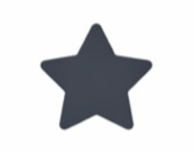
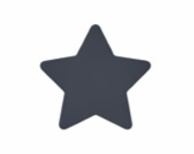
added the colors and tweaked some things

diff --git a/index.css b/index.css
@@ -1,24 +1,65 @@
 @import url('https://fonts.googleapis.com/css2?family=Bitcount+Grid+Double:wght@100..900&family=Share+Tech&display=swap');
 
+* {
+  margin: 0;
+  padding: 0;
+  border: 0;
+}
+
+body {
+    background-color: #1A1A1D;
+    display: flex;
+    flex-direction: column;
+    min-height: 100vh;
+}
+
+main {
+    flex: 1;
+    display: flex;
+    flex-direction: column;
+    justify-content: space-between;
+    padding-bottom: 10px;
+}
+
 h1, h2, h3, h4 {
     font-family: 'Bitcount Grid Double';
     text-align: center;
+    color: #cacace;
+}
+
+h1 {
+    margin-top: 10px;
+}
+
+h2 {
+    margin-top: 10px;
+    margin-bottom: 6px;
 }
 
 p, a {
     font-family: 'Share Tech';
     text-align: center;
+    color: #cacace;
 }
 
-.home-page-paragraphs {
+#home-page-hook {
     font-size: 20px;
     padding-bottom: 40px;
+    text-shadow: 0 5px 0 #6F2232;
+}
+
+.home-page-labels {
+    font-size: 20px;
+    padding-top: 20px;
+    padding-bottom: 40px;
+    text-shadow: 0 5px 0 #6F2232;
 }
 
 header {
     display: flex;
     justify-content: space-between;
     align-items: center;
+    background-color: #4E4E50;
 }
 
 nav {
@@ -26,6 +67,7 @@ nav {
     grid-template-columns: 1fr 2fr 1.5fr;
     column-gap: 10px;
     justify-self: right;
+    margin: 10px;
 }
 
 #logo {
@@ -38,9 +80,18 @@ a {
     text-align: center;
 }
 
+a:hover {
+    color: #C3073F;
+}
+
+img {
+  display: block;
+  margin: 0 auto;
+}
+
 #welcome-line {
     margin-top: 50px;
-    margin-bottom: 16px;
+    margin-bottom: 0;
 }
 
 #first-divider {
@@ -49,9 +100,15 @@ a {
 
 #second-divider {
     margin-top: 20px;
-    margin-bottom: 8px;
+    margin-bottom: 0px;
     margin-right: 20px;
     margin-left: 20px;
+}
+
+#first-divider, #second-divider {
+    background-color: #4E4E50;
+    border: none;
+    height: 2px;
 }
 
 #good-game-attr {
@@ -65,4 +122,7 @@ a {
     grid-template-columns: repeat(3, 1fr);
     grid-template-rows: 1fr 1fr;
     gap: 25px;
+    margin: 20px 60px;
 }
+
+/* do hover stuff for links */

diff --git a/index.html b/index.html
@@ -19,32 +19,31 @@
     <main>
         <h1 id="welcome-line">Welcome to my Videogame Recommendation Hub</h1>
         <hr id="first-divider">
-        <p class="home-page-paragraphs">Here you will find curated lists, positive reviews, and 
+        <p id="home-page-hook">Here you will find curated lists, positive reviews, and 
             clear explanations of what makes each game special.
         </p>
-        <br>
         <hr id="second-divider">
         <h2>What Makes a Game Great</h2>
         <section id="good-game-attr">
             <div>
                 <img src="images/Story1.PNG" alt="Text bubbles">
-                <p class="home-page-paragraphs">Engaging Story</p>
+                <p class="home-page-labels">Engaging Story</p>
             </div>
             <div>
                 <img src="images/Gameplay.png" alt="Game controller">
-                <p class="home-page-paragraphs">Creative Gameplay</p>
+                <p class="home-page-labels">Creative Gameplay</p>
             </div>
             <div>
                 <img src="images/Art.png" alt="Palette and notes">
-                <p class="home-page-paragraphs">Beautiful Art & Music</p>
+                <p class="home-page-labels">Beautiful Art & Music</p>
             </div>
             <div>
                 <img src="images/Progression1.PNG" alt="Stats">
-                <p class="home-page-paragraphs">Meaningful Progression</p>
+                <p class="home-page-labels">Meaningful Progression</p>
             </div>
             <div>
                 <img src="images/Factor1.PNG" alt="Star">
-                <p class="home-page-paragraphs">Fun Factor</p>
+                <p class="home-page-labels">Fun Factor</p>
             </div>
         </section>
     </main>

diff --git a/pc_games.html b/pc_games.html
@@ -8,7 +8,7 @@
 <body>
     <header>
         <a href="index.html">
-            <img src="images/CotrinaLogo_128x128.png" alt="Gaming Logo">
+            <img id="logo" src="images/CotrinaLogo_128x128.png" alt="Gaming Logo">
         </a>
         <nav>
             <a href="index.html">Home</a>
@@ -27,7 +27,7 @@
                 <p>Genre tags: Sandbox, Survival, Creative, Adventure</p>
             </div>
             <div>
-                <img src="images/valorant1.PNG" alt="Valorant">
+                <img src="images/valorant1.png" alt="Valorant">
                 <h2>Valorant</h2>
                 <p>A tactical 5v5 shooter that mixes precise gunplay with unique character abilities. Great for players who enjoy teamwork, strategy, and competitive matches.</p>
                 <p>Genre tags: Tactical Shooter, FPS, Competitive, Multiplayer</p>
